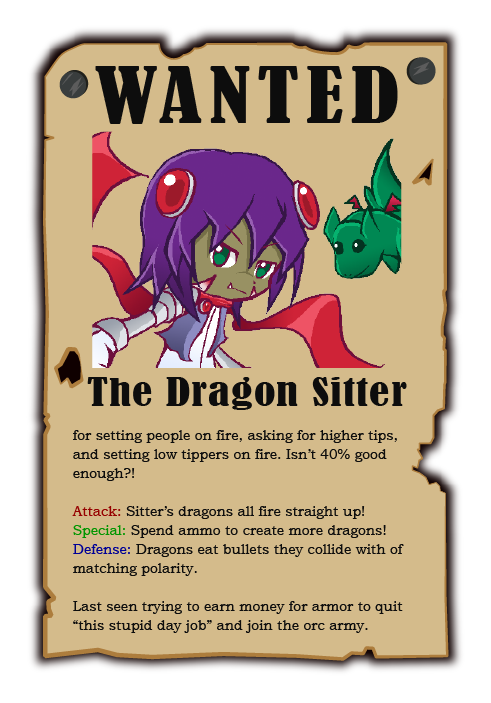
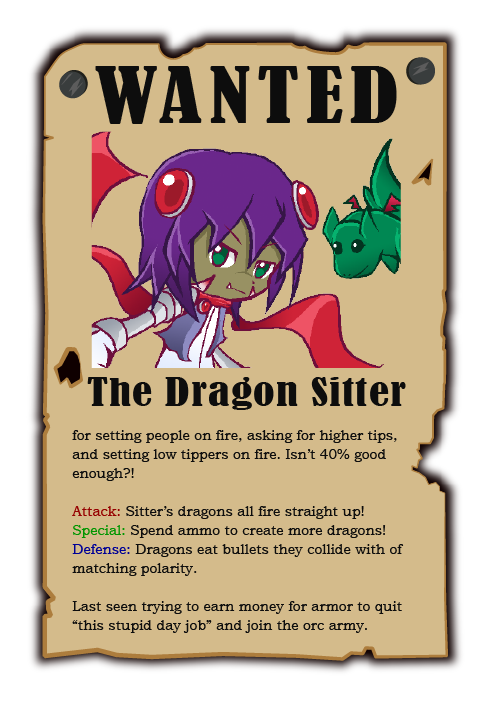
Character select portraits updated IT'S OK TO PULL NAO

diff --git a/EDGP3/Assets/Peregrin's Work/Scripts/GUIManager.cs b/EDGP3/Assets/Peregrin's Work/Scripts/GUIManager.cs
@@ -172,11 +172,11 @@ public class GUIManager : MonoBehaviour {
 		
 			if (player1Select == 0) GUI.Box (new Rect(-Screen.width / 40, Screen.height / 17, PKT.width, PKT.height), PKT, style);
 //			if (player1Select == 1) GUI.Box (new Rect(Screen.width / 8, Screen.height / 4, MMT.width, MMT.height), MMT, style);
-			if (player1Select == 2) GUI.Box (new Rect(Screen.width / 8, Screen.height / 4, TKT.width, TKT.height), TKT, style);
+			if (player1Select == 2) GUI.Box (new Rect(-Screen.width / 40, Screen.height / 17, TKT.width, TKT.height), TKT, style);
 			if (player1Select == 3) GUI.Box (new Rect(-Screen.width / 40, Screen.height / 17, DTT.width, DTT.height), DTT, style);
 			if (player2Select == 0) GUI.Box (new Rect(Screen.width * 1.03f / 2, Screen.height / 17, PKT.width, PKT.height), PKT, style);
 //			if (player2Select == 1) GUI.Box (new Rect(Screen.width * 3 / 4, Screen.height / 4, MMT.width, MMT.height), MMT, style);
-			if (player2Select == 2) GUI.Box (new Rect(Screen.width * 3 / 4, Screen.height / 4, TKT.width, TKT.height), TKT, style);
+			if (player2Select == 2) GUI.Box (new Rect(Screen.width * 1.03f / 2, Screen.height / 17, TKT.width, TKT.height), TKT, style);
 			if (player2Select == 3) GUI.Box (new Rect(Screen.width * 1.03f / 2, Screen.height / 17, DTT.width, DTT.height), DTT, style);		
 
 		}
